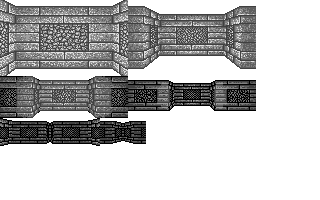
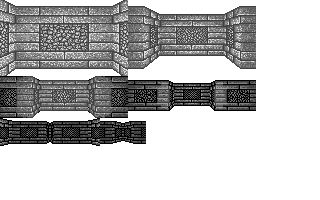
Added flipped wall.

Changed region(s): [[0.125, 0.39, 0.2812, 0.57], [0.5312, 0.42, 0.6562, 0.54]]

diff --git a/graphics.js b/graphics.js
@@ -159,18 +159,23 @@ function bin2type(b) {
 	}
 }
 
-function getStoneWall(HexCode, d, pos, P, pos18) {
+function getStoneWall(HexCode, d, pos, p, pos18) {
 	//if (getHexToBinaryPosition(HexCode, 8) === '0') { ???????????????
 	//    return gfx["dungeon"]["stone"]["wall"];
 	//}
-	P.Portal.drawImage(gfx["dungeon"]["stone"]["wall"], gfxPos[pos][0], gfxPos[pos][1], gfxPos[pos][2], gfxPos[pos][3], (gfxPos[pos][4] * scale), (gfxPos[pos][5] * scale), gfxPos[pos][2] * scale, gfxPos[pos][3] * scale);
+	var wall = "wall";
+	if((p.x + p.y + p.d) % 2 === 1) {
+		wall = "wall2";
+	}
+
+	p.Portal.drawImage(gfx["dungeon"]["stone"][wall], gfxPos[pos][0], gfxPos[pos][1], gfxPos[pos][2], gfxPos[pos][3], (gfxPos[pos][4] * scale), (gfxPos[pos][5] * scale), gfxPos[pos][2] * scale, gfxPos[pos][3] * scale);
 	if (d === parseInt(getHexToBinaryPosition(HexCode, 10, 2))) {
 		return getWallDeco();
 	}
-	return gfx["dungeon"]["stone"]["wall"];
+	return gfx["dungeon"]["stone"][wall];
 
 	function getWallDeco() {
-		var xy = posToCoordinates(pos18, P.x, P.y, P.d);
+		var xy = posToCoordinates(pos18, p.x, p.y, p.d);
 		var RND4 = Math.floor(xy.x * 1.27 + xy.y * 2.68) % 4; //For random banner faces
 		var RND6 = Math.floor(xy.x * 5.76 + xy.y * 4.82) % 6; //For random switches
 		var RND8 = Math.floor(xy.x * 5.76 + xy.y * 4.42) % 8; //For random banner frames
@@ -181,7 +186,7 @@ function getStoneWall(HexCode, d, pos, P, pos18) {
 			} else if (getHexToBinaryPosition(HexCode, 6, 2) === '1') { //Sign
 				var col = parseInt(getHexToBinaryPosition(HexCode, 0, 6)); //Sign colour
 				if (col === 0) { //Random Color
-					P.Portal.drawImage(gfx["dungeon"]["deco"]["banner"][RND8], gfxPos[pos][0], gfxPos[pos][1], gfxPos[pos][2], gfxPos[pos][3], (gfxPos[pos][4] * scale), (gfxPos[pos][5] * scale), gfxPos[pos][2] * scale, gfxPos[pos][3] * scale);
+					p.Portal.drawImage(gfx["dungeon"]["deco"]["banner"][RND8], gfxPos[pos][0], gfxPos[pos][1], gfxPos[pos][2], gfxPos[pos][3], (gfxPos[pos][4] * scale), (gfxPos[pos][5] * scale), gfxPos[pos][2] * scale, gfxPos[pos][3] * scale);
 					switch (RND4) {
 						case 0:
 							return gfx["dungeon"]["deco"]["serpent-head"];
@@ -195,7 +200,7 @@ function getStoneWall(HexCode, d, pos, P, pos18) {
 							return null;
 					}
 				} else if (col <= 4) { //Tower Flags
-					P.Portal.drawImage(gfx["dungeon"]["deco"]["banner"][col], gfxPos[pos][0], gfxPos[pos][1], gfxPos[pos][2], gfxPos[pos][3], (gfxPos[pos][4] * scale), (gfxPos[pos][5] * scale), gfxPos[pos][2] * scale, gfxPos[pos][3] * scale);
+					p.Portal.drawImage(gfx["dungeon"]["deco"]["banner"][col], gfxPos[pos][0], gfxPos[pos][1], gfxPos[pos][2], gfxPos[pos][3], (gfxPos[pos][4] * scale), (gfxPos[pos][5] * scale), gfxPos[pos][2] * scale, gfxPos[pos][3] * scale);
 					if (col === 1) { //Serpent Flag
 						return gfx["dungeon"]["deco"]["serpent-head"];
 					} else if (col === 2) { //Dragon Flag
@@ -224,12 +229,12 @@ function getStoneWall(HexCode, d, pos, P, pos18) {
 					return gfx["dungeon"]["deco"]["gem"][col];
 				}
 			} else {
-				return gfx["dungeon"]["stone"]["wall"];
+				return gfx["dungeon"]["stone"][wall];
 			}
 		}
 		//} catch (e) {}
 
-		return gfx["dungeon"]["stone"]["wall"];
+		return gfx["dungeon"]["stone"][wall];
 	}
 }
 

diff --git a/init.js b/init.js
@@ -55,6 +55,7 @@ function loadGfxData() {
 
 	//Stone wall and shelf
 	gfxLoadImage("dungeon", "stone", "wall");
+	gfxLoadImage("dungeon", "stone", "wall2");
 	gfxLoadImage("dungeon", "stone", "shelf");
 
 	//Wall decorations, banners, wall buttons and gem slots
